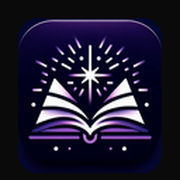
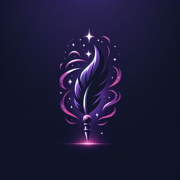
Rebrand Interactive Fiction → GrimQuill
- Site name, meta tags, og:*, twitter:* → GrimQuill
- Slogan: "Write Your Fate"
- Domain: grimquill.io
- New logo (DALL-E 3 magical quill), favicon, og-image
- PWA manifest, offline page updated
- All 7 locales (en/ru/es/fr/de/pt/it) — ~90 brand name replacements
- JSON-LD schemas on Home/Character/Tag pages
- Header/Sidebar/HeroSection: "Grim"+"Quill" split text

diff --git a/frontend-fiction/index.html b/frontend-fiction/index.html
@@ -12,20 +12,20 @@
     <link rel="preconnect" href="https://fonts.googleapis.com" />
     <link rel="preconnect" href="https://fonts.gstatic.com" crossorigin />
     <link rel="stylesheet" href="https://fonts.googleapis.com/css2?family=Inter:wght@400;500;600;700&display=swap" />
-    <title>Interactive Fiction — Choose Your Adventure</title>
-    <meta name="description" content="Interactive fiction powered by AI. Choose your path, shape the story. Fantasy, horror, sci-fi, mystery and more." />
-    <meta name="keywords" content="interactive fiction, AI storytelling, choose your adventure, text adventure, AI stories, CYOA" />
-    <meta property="og:title" content="Interactive Fiction — Choose Your Adventure" />
-    <meta property="og:description" content="AI-powered interactive fiction. Choose your path, shape the story." />
+    <title>GrimQuill — Write Your Fate</title>
+    <meta name="description" content="AI-powered interactive fiction and D&D Game Master. Choose your path, roll the dice, shape the story." />
+    <meta name="keywords" content="interactive fiction, AI storytelling, choose your adventure, D&D, game master, text adventure, AI stories, CYOA" />
+    <meta property="og:title" content="GrimQuill — Write Your Fate" />
+    <meta property="og:description" content="AI-powered interactive fiction and D&D Game Master. Choose your path, roll the dice, shape the story." />
     <meta property="og:type" content="website" />
-    <meta property="og:site_name" content="Interactive Fiction" />
+    <meta property="og:site_name" content="GrimQuill" />
     <meta property="og:image" content="/og-image.png?v=2" />
     <meta property="og:image:width" content="1200" />
     <meta property="og:image:height" content="630" />
     <meta name="twitter:card" content="summary_large_image" />
     <meta name="twitter:image" content="/og-image.png?v=2" />
-    <meta name="twitter:title" content="Interactive Fiction — Choose Your Adventure" />
-    <meta name="twitter:description" content="AI-powered interactive fiction. Choose your path, shape the story." />
+    <meta name="twitter:title" content="GrimQuill — Write Your Fate" />
+    <meta name="twitter:description" content="AI-powered interactive fiction and D&D Game Master. Choose your path, roll the dice, shape the story." />
     <meta name="theme-color" content="#171717" />
     <link rel="apple-touch-icon" href="/apple-touch-icon.png" />
   </head>

diff --git a/frontend-fiction/src/components/seo/SEO.tsx b/frontend-fiction/src/components/seo/SEO.tsx
@@ -2,8 +2,8 @@ import { Helmet } from 'react-helmet-async';
 import { useTranslation } from 'react-i18next';
 import { SUPPORTED_LANGS } from '@/lib/lang';
 
-const SITE_URL = typeof window !== 'undefined' ? window.location.origin : 'https://interactivefiction.app';
-const SITE_NAME = 'Interactive Fiction';
+const SITE_URL = typeof window !== 'undefined' ? window.location.origin : 'https://grimquill.io';
+const SITE_NAME = 'GrimQuill';
 
 interface SEOProps {
   title?: string;
@@ -25,7 +25,7 @@ function stripLangPrefix(path: string): string {
 
 export function SEO({ title, description, image, url, jsonLd }: SEOProps) {
   const { i18n } = useTranslation();
-  const fullTitle = title ? `${title} | ${SITE_NAME}` : `${SITE_NAME} — AI Interactive Stories`;
+  const fullTitle = title ? `${title} | ${SITE_NAME}` : `${SITE_NAME} — Write Your Fate`;
   const canonical = url ? `${SITE_URL}${url}` : `${SITE_URL}/${i18n.language}`;
   const ogImage = image?.startsWith('/') ? `${SITE_URL}${image}` : image;
 
@@ -39,7 +39,7 @@ export function SEO({ title, description, image, url, jsonLd }: SEOProps) {
       <title>{fullTitle}</title>
       {description && <meta name="description" content={description} />}
       <link rel="canonical" href={canonical} />
-      <meta property="og:title" content={title || `${SITE_NAME} — AI Interactive Stories`} />
+      <meta property="og:title" content={title || `${SITE_NAME} — Write Your Fate`} />
       {description && <meta property="og:description" content={description} />}
       {ogImage && <meta property="og:image" content={ogImage} />}
       <meta property="og:url" content={canonical} />
@@ -49,7 +49,7 @@ export function SEO({ title, description, image, url, jsonLd }: SEOProps) {
       {ogImage && <meta property="og:image:width" content="1200" />}
       {ogImage && <meta property="og:image:height" content="630" />}
       <meta name="twitter:card" content="summary_large_image" />
-      <meta name="twitter:title" content={title || `${SITE_NAME} — AI Interactive Stories`} />
+      <meta name="twitter:title" content={title || `${SITE_NAME} — Write Your Fate`} />
       {description && <meta name="twitter:description" content={description} />}
       {ogImage && <meta name="twitter:image" content={ogImage} />}
       {SUPPORTED_LANGS.map(lang => (

diff --git a/frontend-fiction/src/components/layout/Sidebar.tsx b/frontend-fiction/src/components/layout/Sidebar.tsx
@@ -184,7 +184,7 @@ export function Sidebar({ isOpen, onClose }: Props) {
             <div className="flex items-center justify-between p-3 border-b border-neutral-800">
               <span className="text-sm font-semibold flex items-center gap-1">
                 <Logo className="w-5 h-5 text-purple-500" />
-                <span className="text-neutral-300">Interactive</span><span className="text-purple-500">Fiction</span>
+                <span className="text-neutral-300">Grim</span><span className="text-purple-500">Quill</span>
               </span>
               <button onClick={onClose} className="p-1 text-neutral-400 hover:text-white transition-colors">
                 <X className="w-5 h-5" />

diff --git a/frontend-fiction/src/pages/HomePage.tsx b/frontend-fiction/src/pages/HomePage.tsx
@@ -157,13 +157,13 @@ export function HomePage() {
           '@graph': [
             {
               '@type': 'WebSite',
-              name: 'Interactive Fiction',
+              name: 'GrimQuill',
               url: window.location.origin,
-              description: 'AI-Powered Interactive Fiction — Choose Your Adventure',
+              description: 'AI-Powered Interactive Fiction & D&D Game Master — Write Your Fate',
             },
             {
               '@type': 'Organization',
-              name: 'Interactive Fiction',
+              name: 'GrimQuill',
               url: window.location.origin,
             },
           ],

diff --git a/frontend-fiction/vite.config.ts b/frontend-fiction/vite.config.ts
@@ -9,9 +9,9 @@ export default defineConfig({
     VitePWA({
       registerType: 'autoUpdate',
       manifest: {
-        name: 'Interactive Fiction — AI Stories',
-        short_name: 'Interactive Fiction',
-        description: 'Choose your own adventure in AI-powered interactive stories.',
+        name: 'GrimQuill — Write Your Fate',
+        short_name: 'GrimQuill',
+        description: 'AI-powered interactive fiction and D&D Game Master. Choose your path, roll the dice.',
         theme_color: '#171717',
         background_color: '#171717',
         display: 'standalone',

diff --git a/frontend-fiction/src/pages/CharacterPage.tsx b/frontend-fiction/src/pages/CharacterPage.tsx
@@ -217,7 +217,7 @@ export function CharacterPage() {
             {
               '@type': 'BreadcrumbList',
               itemListElement: [
-                { '@type': 'ListItem', position: 1, name: 'Interactive Fiction', item: window.location.origin },
+                { '@type': 'ListItem', position: 1, name: 'GrimQuill', item: window.location.origin },
                 { '@type': 'ListItem', position: 2, name: t('home.title'), item: `${window.location.origin}${localePath('/')}` },
                 { '@type': 'ListItem', position: 3, name: character.name },
               ],

diff --git a/frontend-fiction/src/pages/TagLandingPage.tsx b/frontend-fiction/src/pages/TagLandingPage.tsx
@@ -75,7 +75,7 @@ export function TagLandingPage() {
             {
               '@type': 'BreadcrumbList',
               itemListElement: [
-                { '@type': 'ListItem', position: 1, name: 'Interactive Fiction', item: window.location.origin },
+                { '@type': 'ListItem', position: 1, name: 'GrimQuill', item: window.location.origin },
                 { '@type': 'ListItem', position: 2, name: t('home.title'), item: `${window.location.origin}${localePath('/')}` },
                 { '@type': 'ListItem', position: 3, name: label },
               ],

diff --git a/frontend-fiction/src/components/landing/HeroSection.tsx b/frontend-fiction/src/components/landing/HeroSection.tsx
@@ -41,8 +41,7 @@ export function HeroSection({ popularCharacters, onBrowseClick }: Props) {
           <Logo className="w-16 h-16 md:w-20 md:h-20 text-purple-500 mx-auto mb-6" />
 
           <h1 className="text-4xl md:text-6xl font-bold mb-4">
-            <span className="text-white">Interactive</span>
-            <span className="text-purple-500">Fiction</span>
+            <span className="text-white">Grim</span><span className="text-purple-500">Quill</span>
           </h1>
 
           <p className="text-xl md:text-2xl text-purple-300/80 font-medium mb-3">

diff --git a/frontend-fiction/src/components/layout/Header.tsx b/frontend-fiction/src/components/layout/Header.tsx
@@ -36,7 +36,7 @@ export function Header({ onToggleSidebar }: Props) {
         <Link to="/" className="flex items-center gap-1.5 text-lg font-bold">
           <Logo className="w-6 h-6 text-purple-500" />
           <span className="hidden sm:inline">
-            <span className="text-white">Interactive</span><span className="text-purple-500">Fiction</span>
+            <span className="text-white">Grim</span><span className="text-purple-500">Quill</span>
           </span>
         </Link>
       </div>

diff --git a/frontend-fiction/src/components/layout/Footer.tsx b/frontend-fiction/src/components/layout/Footer.tsx
@@ -70,7 +70,7 @@ export function Footer() {
           <Link to={localePath('/faq')} className="hover:text-neutral-300 transition-colors">
             {t('footer.faq')}
           </Link>
-          <a href="mailto:support@interactivefiction.app" className="hover:text-neutral-300 transition-colors">
+          <a href="mailto:support@grimquill.io" className="hover:text-neutral-300 transition-colors">
             {t('footer.contact')}
           </a>
         </div>

diff --git a/frontend-fiction/public/offline.html b/frontend-fiction/public/offline.html
@@ -3,7 +3,7 @@
 <head>
   <meta charset="UTF-8">
   <meta name="viewport" content="width=device-width, initial-scale=1.0">
-  <title>Offline — Interactive Fiction</title>
+  <title>Offline — GrimQuill</title>
   <style>
     * { margin: 0; padding: 0; box-sizing: border-box; }
     body { background: #171717; color: #f5f5f5; font-family: Inter, system-ui, sans-serif; display: flex; align-items: center; justify-content: center; min-height: 100vh; }

diff --git a/frontend-fiction/src/components/ui/Logo.tsx b/frontend-fiction/src/components/ui/Logo.tsx
@@ -6,7 +6,7 @@ export function Logo({ className = 'w-6 h-6' }: Props) {
   return (
     <img
       src="/logo.png"
-      alt="Interactive Fiction"
+      alt="GrimQuill"
       className={className}
       draggable={false}
     />
